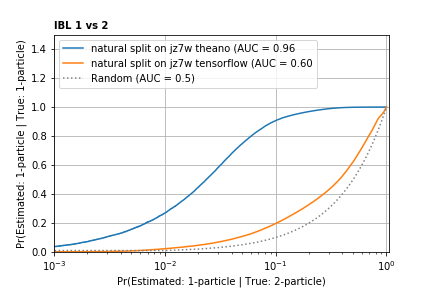
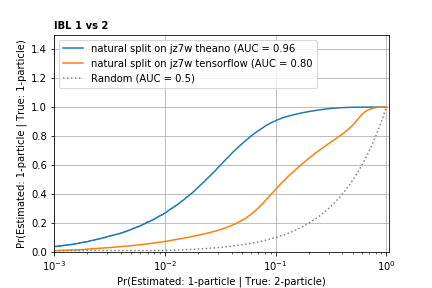
Batch size 60

diff --git a/scripts/run_training.py b/scripts/run_training.py
@@ -122,8 +122,8 @@ def _main():
     fit_args['verbose'] = 1
 
     validation_index = int(data_x.shape[0]*0.1)
-    validationDataSet = tf.data.Dataset.from_tensor_slices((data_x[:validation_index], data_y[:validation_index])).batch(200)
-    trainDataSet = tf.data.Dataset.from_tensor_slices((data_x[validation_index:], data_y[validation_index:])).batch(200)
+    validationDataSet = tf.data.Dataset.from_tensor_slices((data_x[:validation_index], data_y[:validation_index])).batch(60)
+    trainDataSet = tf.data.Dataset.from_tensor_slices((data_x[validation_index:], data_y[validation_index:])).batch(60)
 
     history = model.fit(x=trainDataSet, **fit_args, validation_data=validationDataSet)
 
